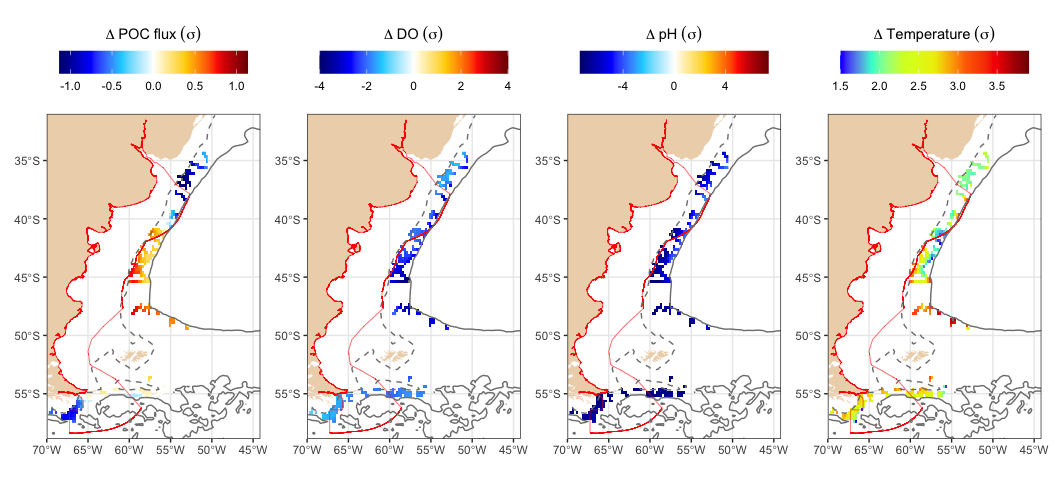
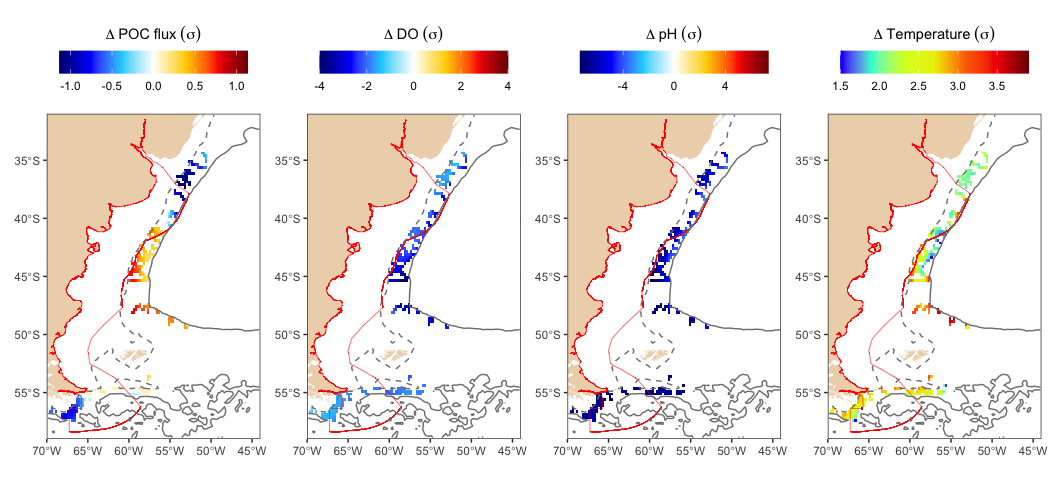
update

diff --git a/tutorials/tute1.md b/tutorials/tute1.md
@@ -115,14 +115,14 @@ There is an example code within the documentation, but we can also draw
 the bathymetric map here.
 
 ``` r
-bathy <- etopo2022%>% as.data.frame(xy = TRUE) %>% na.omit
+bathy <- etopo2022%>% as.data.frame(xy = TRUE)
 ggplot(bathy) +
       geom_raster(aes(x=x, y=y, fill=-layer))+
       geom_polygon(data=arg, aes(x=X, y=Y, group=PID), fill="bisque2", colour="transparent")+
       geom_sf(data=as(eez, "sf"), fill="transparent", colour="red")+
       geom_contour(data=bathy, aes(x=x, y=y, z=layer), breaks=-200, linetype=2, colour="gray50")+
       geom_contour(data=bathy, aes(x=x, y=y, z=layer), breaks=-4000, linetype=1, colour="gray50")+
-      scale_fill_gradientn(colours=terrain.colors(7))+
+      scale_fill_gradientn(colours=terrain.colors(7), na.value="white")+
       scale_x_continuous(expand = expansion(mult = 0))+
       scale_y_continuous(expand = expansion(mult = 0))+
       labs(x=NULL, y=NULL, fill=NULL, title="Depth (m)")+
@@ -154,13 +154,13 @@ ggplot(bathy) +
 plot_fun <- function(r, vt=names(r), colours=NULL, q_limits=c(0.001, 0.999)){
   
   # Convert raster to data frame and then to list
-  cmip6 <- as.data.frame(r, xy = TRUE) %>% na.omit %>%
+  cmip6 <- as.data.frame(r, xy = TRUE) %>%
   gather(-x, -y, key = "var", value = "value", factor_key = TRUE)
   cmip6$var <- factor(cmip6$var, labels = vt)
   cmip6_list <- cmip6 %>% group_split(var)
   
   # Depth
-  bathy <- etopo2022%>% as.data.frame(xy = TRUE) %>% na.omit
+  bathy <- etopo2022%>% as.data.frame(xy = TRUE)
   
   # ggolot list
   gg_list = lapply(cmip6_list, function(dat) {
@@ -184,7 +184,7 @@ plot_fun <- function(r, vt=names(r), colours=NULL, q_limits=c(0.001, 0.999)){
       geom_sf(data=as(eez, "sf"), fill="transparent", colour="red")+
       geom_contour(data=bathy, aes(x=x, y=y, z=layer), breaks=-200, linetype=2, colour="gray50")+
       geom_contour(data=bathy, aes(x=x, y=y, z=layer), breaks=-4000, linetype=1, colour="gray50")+
-      scale_fill_gradientn(colours=cols, limits=lims)+
+      scale_fill_gradientn(colours=cols, limits=lims, na.value="white")+
       scale_x_continuous(expand = expansion(mult = 0))+
       scale_y_continuous(expand = expansion(mult = 0))+
       labs(x=NULL, y=NULL, fill=NULL, title=parse(text=dat$var[1] %>% as.character))+
@@ -293,7 +293,7 @@ climate changes for export POC flux, dissolved oxygen, pH, and
 temperature simultaneously exceed twice the historical variability.
 
 ``` r
-all <- overlay(subset(cmip6_extoe_constant, 1:4), fun=max) %>% mask(eez)
+all <- overlay(subset(cmip6_extoe_constant, 1:4), fun=max)
 names(all) <- "cmip6_extoe_constant"
 plot_fun(r=all, vt="When~climate~change>2*sigma", colours=brewer.pal(10, 'RdYlBu'), q_limits = c(0, 1))
 ```

diff --git a/tutorials/tute2.md b/tutorials/tute2.md
@@ -32,7 +32,7 @@ and cold water corals [(CWC)](http://data.unep-wcmc.org/datasets/3) by
 black dots.
 
 ``` r
-bathy <- etopo2022  %>% mask(eez) %>% as.data.frame(xy = TRUE) %>% na.omit
+bathy <- etopo2022  %>% mask(eez) %>% as.data.frame(xy = TRUE)
 ggplot(bathy) +
       geom_raster(aes(x=x, y=y, fill=-layer))+
       geom_polygon(data=arg, aes(x=X, y=Y, group=PID), fill="bisque2", colour="transparent")+
@@ -42,7 +42,7 @@ ggplot(bathy) +
       geom_sf(data=as(canyon, "sf"), colour="blue")+
       geom_sf(data=as(seamount, "sf"), size=0.5, colour="red")+
       geom_sf(data=as(coral, "sf"), size=0.5, colour="black")+
-      scale_fill_gradientn(colours=terrain.colors(7))+
+      scale_fill_gradientn(colours=terrain.colors(7), na.value="white")+
       scale_x_continuous(expand = expansion(mult = 0))+
       scale_y_continuous(expand = expansion(mult = 0))+
       labs(x=NULL, y=NULL, fill=NULL, title="Depth (m)")+
@@ -65,13 +65,13 @@ same four parameters, including:
 plot_fun <- function(r, vt=names(r), colours=NULL, q_limits=c(0.001, 0.999)){
   
   # Convert raster to data frame and then to list
-  cmip6 <- as.data.frame(r, xy = TRUE) %>% na.omit %>%
+  cmip6 <- as.data.frame(r, xy = TRUE) %>% 
   gather(-x, -y, key = "var", value = "value", factor_key = TRUE)
   cmip6$var <- factor(cmip6$var, labels = vt)
   cmip6_list <- cmip6 %>% group_split(var)
   
   # Depth
-  bathy <- etopo2022%>% as.data.frame(xy = TRUE) %>% na.omit
+  bathy <- etopo2022%>% as.data.frame(xy = TRUE)
   
   # ggolot list
   gg_list = lapply(cmip6_list, function(dat) {
@@ -95,7 +95,7 @@ plot_fun <- function(r, vt=names(r), colours=NULL, q_limits=c(0.001, 0.999)){
       geom_sf(data=as(eez, "sf"), fill="transparent", colour="red")+
       geom_contour(data=bathy, aes(x=x, y=y, z=layer), breaks=-200, linetype=2, colour="gray50")+
       geom_contour(data=bathy, aes(x=x, y=y, z=layer), breaks=-4000, linetype=1, colour="gray50")+
-      scale_fill_gradientn(colours=cols, limits=lims)+
+      scale_fill_gradientn(colours=cols, limits=lims, na.value="white")+
       scale_x_continuous(expand = expansion(mult = 0))+
       scale_y_continuous(expand = expansion(mult = 0))+
       labs(x=NULL, y=NULL, fill=NULL, title=parse(text=dat$var[1] %>% as.character))+

diff --git a/tutorials/tute3.md b/tutorials/tute3.md
@@ -1,7 +1,7 @@
 Applying seafloor climate change data for habitat suitability modeling
 ================
 Chih-Lin Wei
-2024-07-30
+2024-08-04
 
 ``` r
 library(ArgentinaSSP585)
@@ -80,7 +80,7 @@ ggplot(bathy) +
   geom_contour(data=bathy, aes(x=x, y=y, z=layer), breaks=-4000, linetype=1, colour="gray50")+
   geom_point(data=occ, aes(x=decimalLongitude, y=decimalLatitude), size=0.5)+
   facet_wrap(~Taxa)+
-  scale_fill_gradientn(colours=terrain.colors(7))+
+  scale_fill_gradientn(colours=terrain.colors(7), na.value="white")+
   scale_x_continuous(expand = expansion(mult = 0))+
   scale_y_continuous(expand = expansion(mult = 0))+
   labs(x=NULL, y=NULL, fill="Depth\n(m)")+
@@ -197,7 +197,7 @@ ggplot(dat) +
   geom_contour(data=bathy, aes(x=x, y=y, z=layer), breaks=-4000, linetype=1, colour="gray50")+
   #geom_point(data=occ, aes(x=decimalLongitude, y=decimalLatitude), size=0.2)+
   facet_grid(var~Taxa)+
-  scale_fill_gradientn(colours=brewer.pal(10, 'RdYlBu') %>% rev)+
+  scale_fill_gradientn(colours=brewer.pal(10, 'RdYlBu') %>% rev, na.value="white")+
   scale_x_continuous(expand = expansion(mult = 0))+
   scale_y_continuous(expand = expansion(mult = 0))+
   labs(x=NULL, y=NULL, fill="Habitat\nSuitability")+
